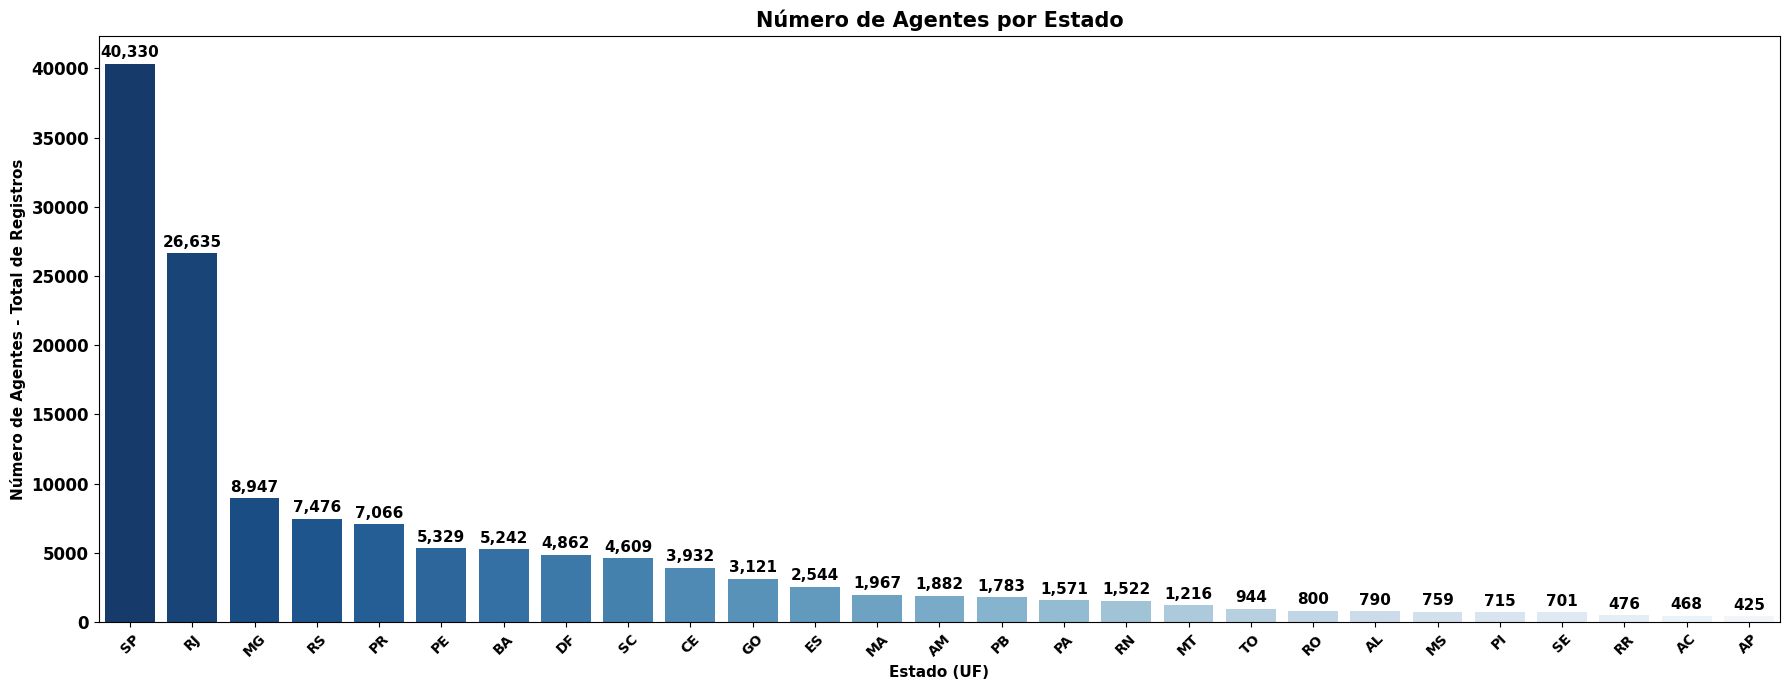
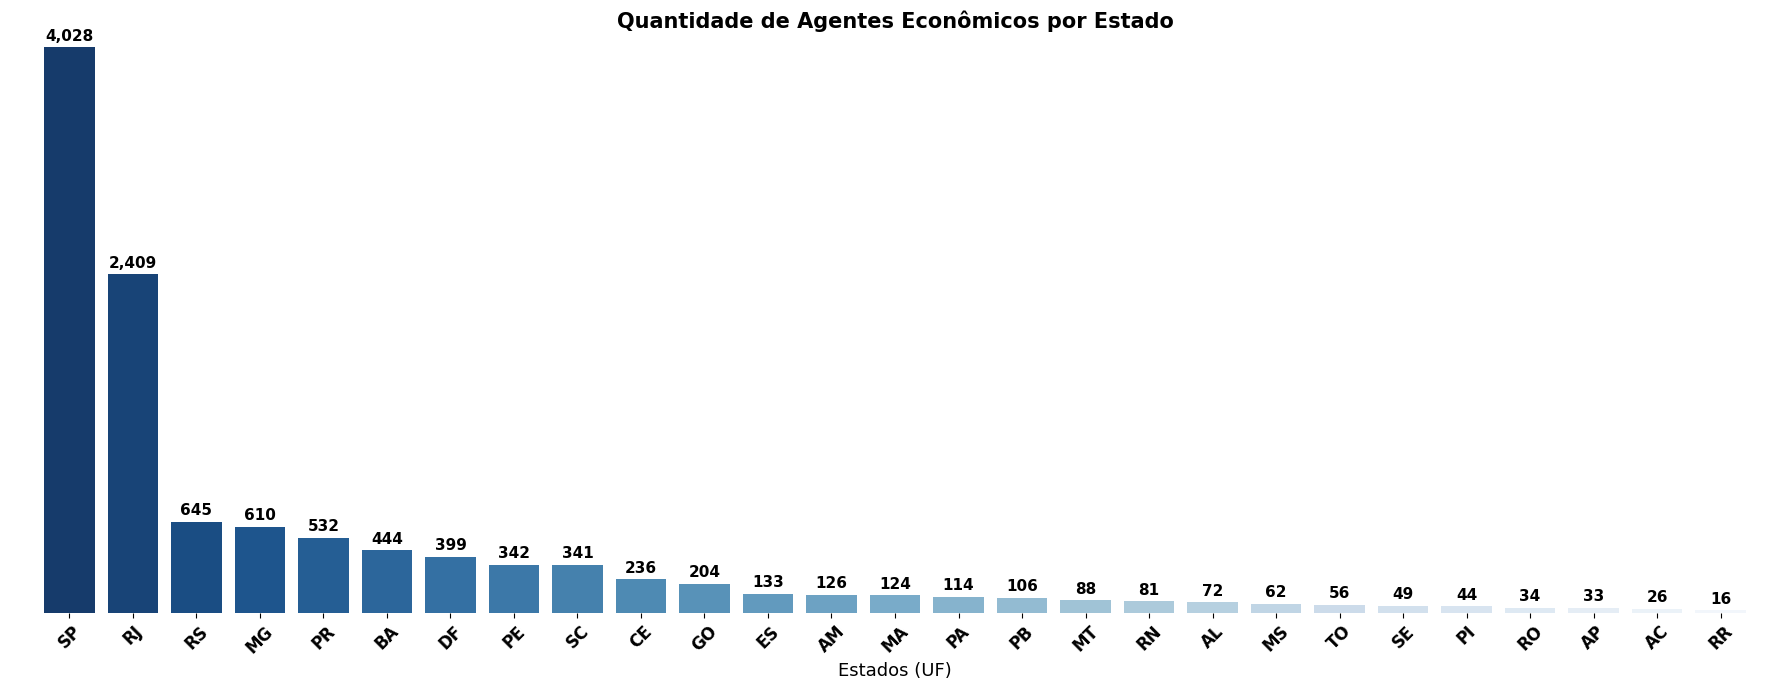
v

Changed region(s): [[0.0, 0.0304, 0.9832, 1.0], [0.338, 0.0, 0.676, 0.0609]]

diff --git a/README.md b/README.md
@@ -1,8 +1,8 @@
-# Agência Nacional do Cinema - ANCINE
+# Indústria Cinematográfica Brasileira
 
 ![ANCINE](img/logo_ancine.jpg)
 
-# Indústria Cinematográfica Brasileira : Desafios e Oportunidades 
+# ANCINE : Desafios e Oportunidades 
 
 ### **Contexto de Negócio**
 
@@ -27,30 +27,81 @@ Para ver código do projeto [clique aqui](Notebook_Novo.ipynb)
 ![Gif Cidade de Deus](img/gif_central_do_brasil.webp)
 
 ---
+# Conhecendo os Dados
 
-# Natureza Jurídica dos Agentes Econômicos
+*Por conta do modelo de POO que foi aplicado nesse projeto, os dados foram previamente pré-processados, ou seja, não vamos encontrar tabelas com valores nulos ou colunas com tipos de dados equivocados. Para conhecer a documentação desse processo, clique [aqui](https://github.com/fonsecadados/AgenciaNacionalDoCinema_ANCINE/blob/main/processamento_dados.py).*
 
-**Qual a distribuição geográfica dos agentes econômicos no Brasil**
+Com a fusão das tabelas "Agentes Econômicos Regulares", "Atividades Econômicas dos Agentes Regulares" e "Produtoras Independentes", temos acesso a uma quantidade considerável de dados, permitindo-nos uma compreensão mais profunda da estrutura dessa população. Esta tabela apresenta dados jurídicos dos agentes registrados na ANCINE, incluindo CNPJ, Natureza Jurídica e Atividade Econômica. 
 
-Observa-se uma concentração considerável de agentes econômicos nos estados de São Paulo (SP) e Rio de Janeiro (RJ) no setor audiovisual. Tal concentração é influenciada pela centralização das atividades de mercado e da disponibilidade de mão de obra qualificada nesses dois estados.
+Para dar início a análise foi feita uma junção entre 3 tabelas: Agentes Econômicos Regulares, Atividades Econômicas dos Agentes, e Produtoras Independentes. Essa junção foi feita para agilizar o processo e poluir menos a página do notebook. Para ver o código [clique aqui](https://github.com/fonsecadados/AgenciaNacionalDoCinema_ANCINE/blob/main/TabelaUnificadaANCINE.ipynb).  
+
+Além da junção,  criada uma função para retornar um perfil básico do banco de dados escolhido. 
+
+---
+
+# "Produtora Independente"
+
+A minuta da instrução normativa publicada pelo Ministério da Cultura estabelece critérios para classificação de empresa produtora independente para fins de captação de recursos por meio de fomento indireto, recurso de incentivo fiscal federal, relativo às atividades de financiamento de projetos audiovisuais. 
+
+*Art. 2º. Somente as empresas classificadas na ANCINE como produtoras brasileiras independentes estarão aptas a captar recursos por meio de fomento indireto administrado pela ANCINE, de acordo com sua classificação de nível.*
+
+Nesse projeto serão analisados apenas os dados dos Agentes que cumprem os requisitos da normativa e que possuem pontuação na classificação.
+
+---
+
+Essa segmentação da classificação do nível de produtora resultou em um corte 7.196 linhas de dados. Isso se justifica por que a tabela Agentes Econômicos Regulares abrange todos os registros na indústria audiovisual, que não se limita apenas ao processo direto de produção de obras cinematográficas, além do corte  dos agentes que não possuem classificação de nível de produtora, ou seja não é apto para captar recursos de incentivo.
+
+#### Vamos analisar as Atividades Econômicas dos Agentes
+
+Essa análise preliminar sobre as Atividades Econômicas dos Agentes nos retornou 186 tipos diferentes de atividades:
+
+![Contagem de Naturezas Jurídicas](img\df_naturezas_juridicas.PNG)
+
+A lista de palavras mostra uma enorme quantidade outliers que vão poluir futuramente a visualização das nuvens, como preposições, conjunções e palavras recorrentes nos títulos das atividades e que não fazem parte do contexto.
+
+Nuvem de Palavras com as 50 mais recorrentes
+![Contagem de Naturezas Jurídicas](img\nuvem_palavras_top.png)
+
+Nuvem de Palavras com 400 menos recorrentes
+
+![Contagem de Naturezas Jurídicas](img\nuvem_palavras_resto.png)
+
+A nuvem de palavras nos mostra a diversidade de atividades econômicas dentre os agentes com classificação de nível de produtora. Vamos analisar a distribuição geográfica desses agentes
+
+---
+### **Qual a distribuição geográfica dos agentes econômicos no Brasil?**
+
 
 ![Contagem de Agentes Econômicos por Estado](img/natureza_juridica_contagem_estados.png)
 
+Observa-se uma concentração considerável de agentes econômicos nos estados de São Paulo (SP) e Rio de Janeiro (RJ) no setor audiovisual. Tal concentração é influenciada pela centralização das atividades de mercado e da disponibilidade de mão de obra qualificada nesses dois estados.
 
-### Para melhor compreender a distribuição dos agentes econômicos, é necessário considerar a exclusão de SP e RJ da análise. 
+Além da concentração de agentes dos estados de SP e RJ, vemos também uma concentração evidente nas regiões Sul e Sudeste. Vejamos esse mapa de distribuição:
 
+---
 ![Distribuição dos Agentes Econômicos por Estado](img/natureza_juridica_distribuicao_estados.png)
 
-Ao realizar essa exclusão, evidenciam-se padrões diferentes de distribuição, refletindo uma dispersão um pouco mais equitativa da atividade econômica nas regiões Sul, Sudeste e parte do Nordeste. Estados como Minas Gerais, Rio Grande do Sul, Paraná e Bahia se destacam na mancha de distribuição dos Agentes Econômicos quando é desconsiderados São Paulo e Rio de Janeiro. 
+Para melhor compreender a distribuição dos agentes econômicos, é necessário considerar a exclusão de SP e RJ da análise. Ao realizar essa exclusão, evidenciam-se padrões diferentes de distribuição, refletindo uma dispersão mais equitativa da atividade econômica pelo território nacional. Essa alteração na distribuição reflete as dinâmicas regionais específicas do setor audiovisual fora dos polos tradicionais, revelando potenciais áreas de crescimento e desenvolvimento em outras regiões do país, como os estados da Bahia e Pernambuco, além do Distrito Federal.
 
-Essa alteração na distribuição reflete as dinâmicas regionais específicas do setor audiovisual fora dos polos tradicionais, revelando potenciais áreas de crescimento e desenvolvimento em outras regiões do país.
 
-COMPLETAR AQUI - Analisar mais a fundo a distribuição dos agentes nos estados
+Gráfico de comparação entre o número de produtoras na capital vs a somatória de produtoras fora da capital (Excluindo SP, RJ e o Distrito Federal)
 
-Estuando mais o tema, vamos analisar o ranking de natureza juridica dos agentes econômicos
+![Contagem de Natureza Jurídica](img\comparacao_capital_interior.png)
 
-![Contagem de Natureza Jurídica](img/natureza_juridica_contagem_atividades.png)
+Como podemos ver no gráfico de pizza a seguir, curiosamente Santa Catarina é o único estado da Federação que possui mais agentes no interior que na capital (FLorianópolis), enquanto Roraima é o único estado que só possui agentes na capital (Boa Vista). Outros estados que seguem a tendência de decentralização é o Espírito Santo e Rondônia.
 
+![Contagem de Natureza Jurídica](img\pie.png)
+
+Estudando mais o tema, vamos analisar o ranking de natureza juridica dos agentes econômicos
+
+![Contagem de Natureza Jurídica](img\top_10.png)
+
+
+Apesar da natureza jurídica LTDA (Sociedade Empresária Limitada) controlar majoritariamente a arrecadação no mercado, o MEI (Micro Empreendedor Individual) desempenha um papel significativo na indústria audiovisual brasileira, principalmente em um contexto de transformação digital e na democratização da produção de conteúdo. Através do MEI produtores independentes tem acesso a uma estrutura jurídica simplificada e custos operacionais mais baixos em relação à outras naturezas jurídicas, possibilitando que futuros profissionais da inústria começem seus próprios negócios com mais facilidade. 
+
+Vejamos as classificações de nível de produtora:
+
+![Contagem de Natureza Jurídica](img\nivel_produtora.png)
 
 #### **Desafios Identificados**  
 
